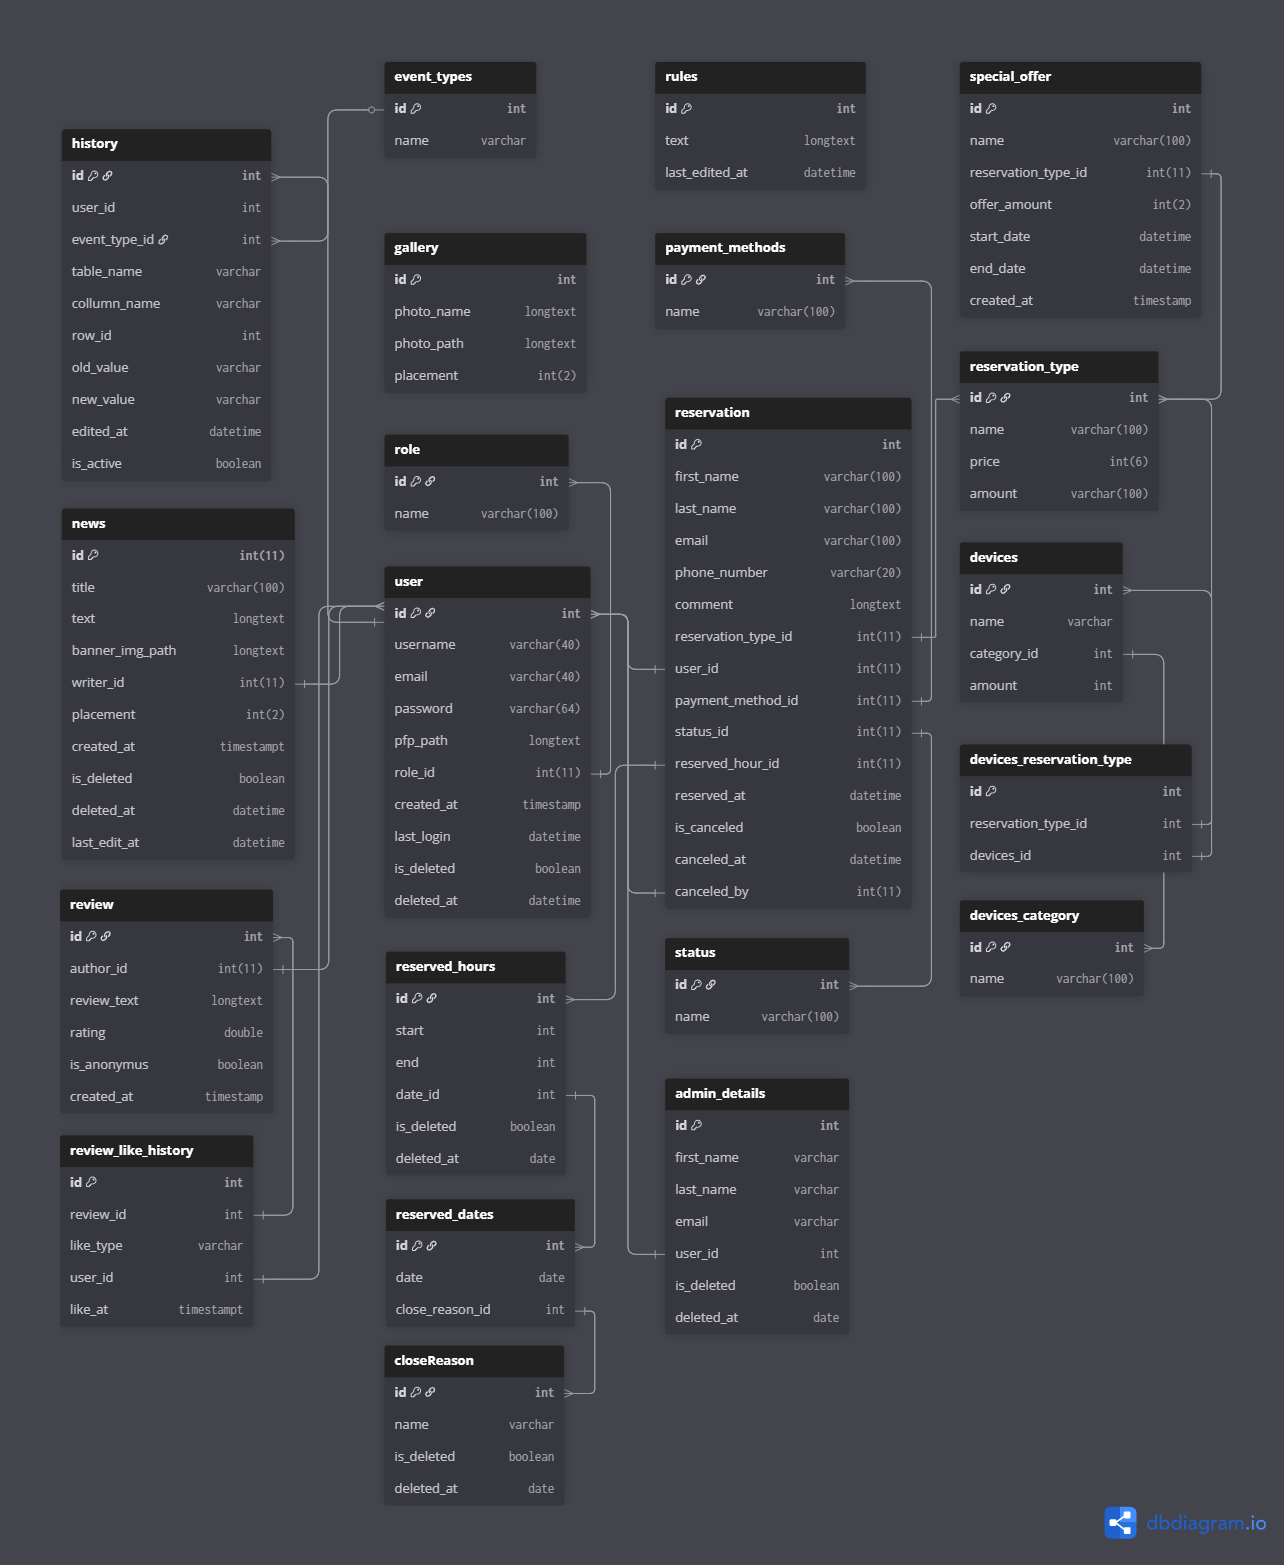
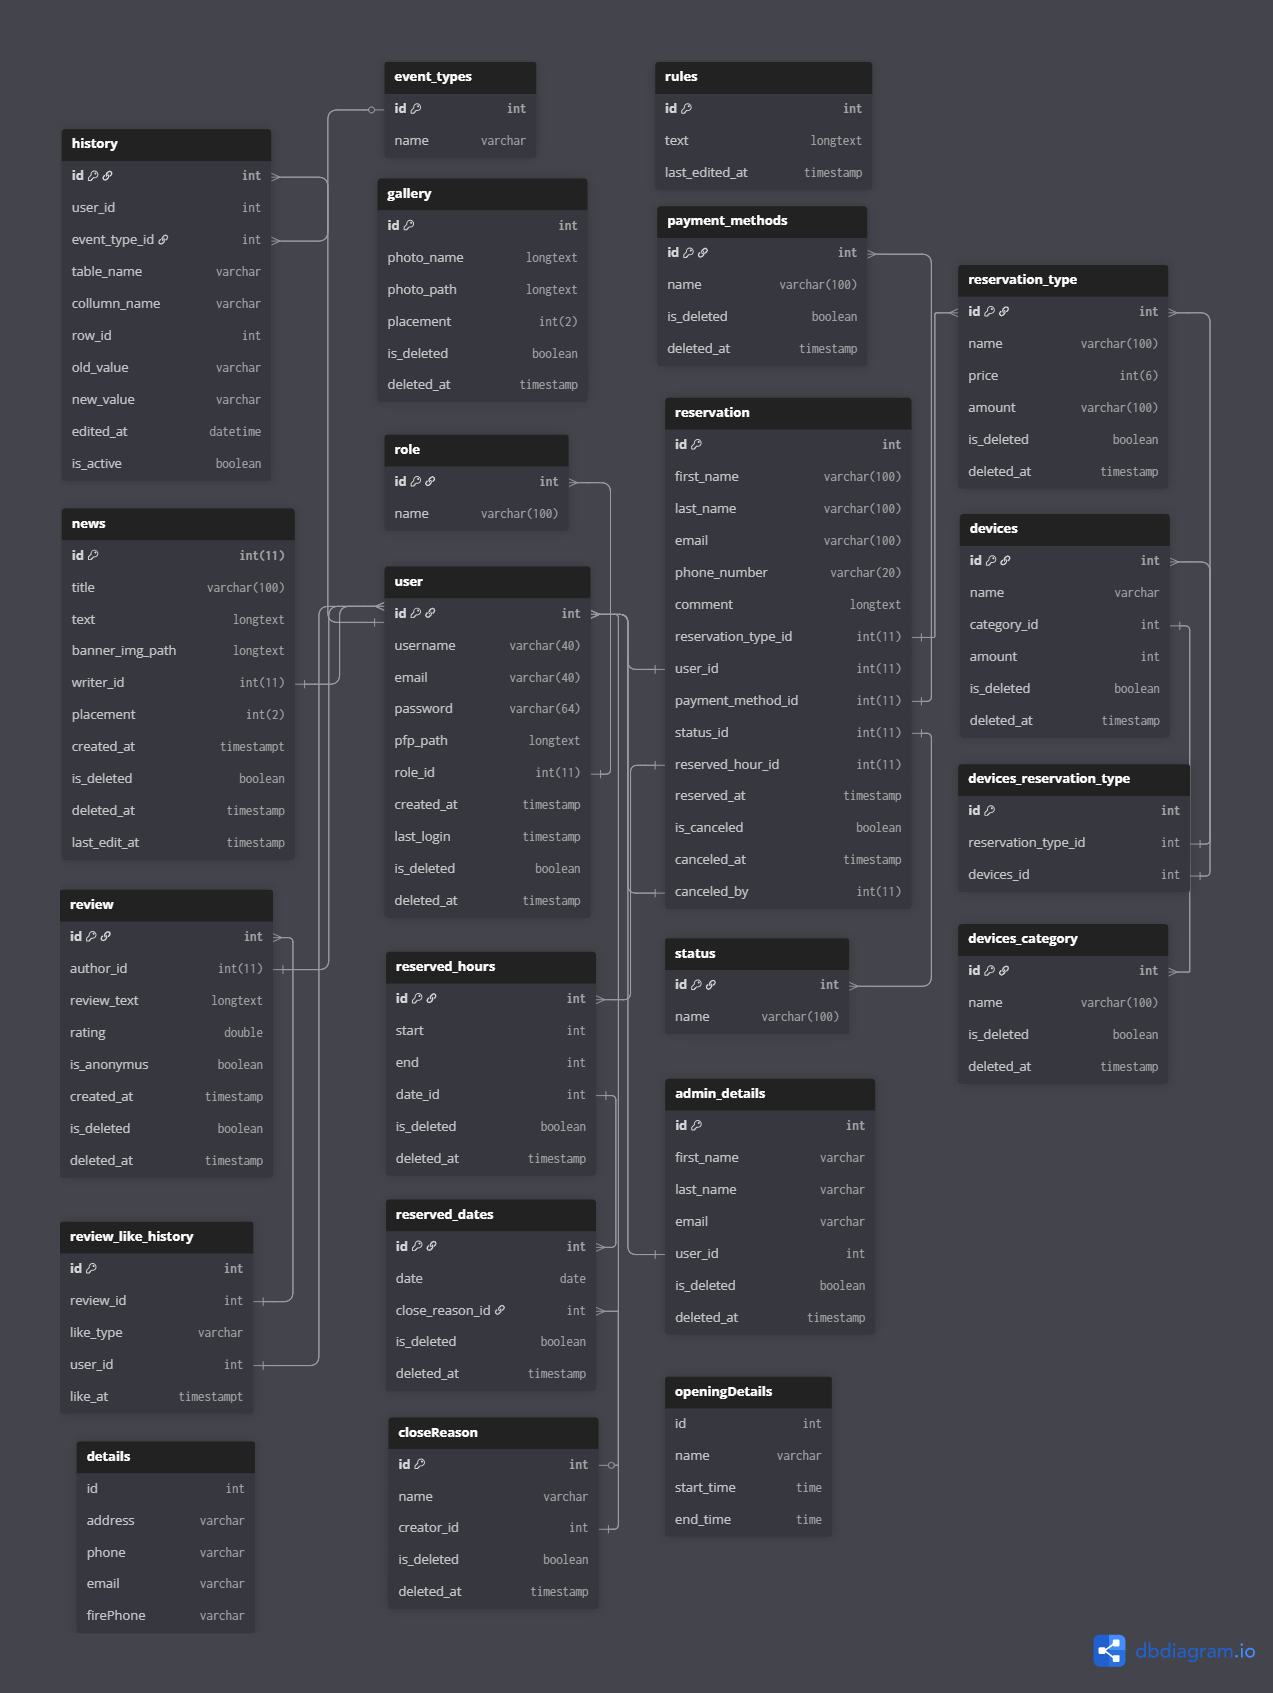
adatbázis frissités

Changed region(s): [[0.0306, 0.0307, 0.9497, 0.9508], [0.7353, 0.0307, 0.9497, 0.0613], [0.8578, 0.9508, 0.9804, 0.9815]]

diff --git a/appointmentManagementAPI/src/main/java/com/Hbence/appointmentManagementAPI/entity/DevicesCategory.java b/appointmentManagementAPI/src/main/java/com/Hbence/appointmentManagementAPI/entity/DevicesCategory.java
@@ -9,6 +9,7 @@ import javax.validation.constraints.NotNull;
 import javax.validation.constraints.Null;
 import javax.validation.constraints.Size;
 import java.time.LocalDateTime;
+import java.util.Date;
 import java.util.List;
 
 @Entity
@@ -30,14 +31,14 @@ public class DevicesCategory {
     private String name;
 
     @Column(name = "is_deleted")
-    @NotNull
     @JsonIgnore
-    private Boolean isDeleted;
+    private Boolean isDeleted = false;
 
     @Column(name = "deleted_at")
     @Null
     @JsonIgnore
-    private LocalDateTime deletedAt;
+    @Temporal(TemporalType.TIMESTAMP)
+    private Date deletedAt;
 
     //Kapcsolatok
     @OneToMany(

diff --git a/appointmentManagementAPI/src/main/java/com/Hbence/appointmentManagementAPI/entity/CloseReason.java b/appointmentManagementAPI/src/main/java/com/Hbence/appointmentManagementAPI/entity/CloseReason.java
@@ -12,6 +12,7 @@ import javax.validation.constraints.NotNull;
 import javax.validation.constraints.Null;
 import javax.validation.constraints.Size;
 import java.time.LocalDateTime;
+import java.util.Date;
 import java.util.List;
 
 @Table(name = "close_reason")
@@ -33,14 +34,14 @@ public class CloseReason {
     private String name;
 
     @Column(name = "is_deleted")
-    @NotNull
     @JsonIgnore
     private Boolean isDeleted = false;
 
     @Column(name = "deleted_at")
     @Null
     @JsonIgnore
-    private LocalDateTime deletedAt;
+    @Temporal(TemporalType.TIMESTAMP)
+    private Date deletedAt;
 
     //Kapcsolatok
     @OneToMany(

diff --git a/appointmentManagementAPI/src/main/java/com/Hbence/appointmentManagementAPI/entity/ReservedHours.java b/appointmentManagementAPI/src/main/java/com/Hbence/appointmentManagementAPI/entity/ReservedHours.java
@@ -10,6 +10,7 @@ import javax.validation.constraints.Null;
 import javax.validation.constraints.Size;
 import java.time.LocalDate;
 import java.time.LocalDateTime;
+import java.util.Date;
 
 @Entity
 @Table(name = "reserved_hour")
@@ -40,14 +41,14 @@ public class ReservedHours {
     private int end;
 
     @Column(name = "is_deleted")
-    @NotNull
     @JsonIgnore
     private Boolean isDeleted = false;
 
     @Column(name = "deleted_at")
     @Null
     @JsonIgnore
-    private LocalDateTime deletedAt;
+    @Temporal(TemporalType.TIMESTAMP)
+    private Date deletedAt;
 
     //Kapcsolatok
     @ManyToOne(cascade = {CascadeType.MERGE})

diff --git a/appointmentManagementAPI/src/main/java/com/Hbence/appointmentManagementAPI/entity/Review.java b/appointmentManagementAPI/src/main/java/com/Hbence/appointmentManagementAPI/entity/Review.java
@@ -10,6 +10,7 @@ import lombok.ToString;
 import javax.validation.constraints.NotNull;
 import javax.validation.constraints.Null;
 import java.time.LocalDateTime;
+import java.util.Date;
 import java.util.List;
 
 @Entity
@@ -41,14 +42,14 @@ public class Review {
     private LocalDateTime createdAt;
 
     @Column(name = "is_deleted")
-    @NotNull
     @JsonIgnore
     private Boolean isDeleted = false;
 
     @Column(name = "deleted_at")
     @Null
     @JsonIgnore
-    private LocalDateTime deletedAt;
+    @Temporal(TemporalType.TIMESTAMP)
+    private Date deletedAt;
 
     //Kapcsolatok
     @ManyToOne(cascade = {})

diff --git a/appointmentManagementAPI/src/main/java/com/Hbence/appointmentManagementAPI/entity/PaymentMethods.java b/appointmentManagementAPI/src/main/java/com/Hbence/appointmentManagementAPI/entity/PaymentMethods.java
@@ -8,6 +8,7 @@ import javax.validation.constraints.NotNull;
 import javax.validation.constraints.Null;
 import javax.validation.constraints.Size;
 import java.time.LocalDateTime;
+import java.util.Date;
 import java.util.List;
 
 @Entity
@@ -29,14 +30,14 @@ public class PaymentMethods {
     private String name;
 
     @Column(name = "is_deleted")
-    @NotNull
     @JsonIgnore
     private Boolean isDeleted = false;
 
     @Column(name = "deleted_at")
     @Null
     @JsonIgnore
-    private LocalDateTime deletedAt;
+    @Temporal(TemporalType.TIMESTAMP)
+    private Date deletedAt;
 
     //Kapcsolatok
     @JsonIgnore

diff --git a/appointmentManagementAPI/src/main/java/com/Hbence/appointmentManagementAPI/entity/Role.java b/appointmentManagementAPI/src/main/java/com/Hbence/appointmentManagementAPI/entity/Role.java
@@ -28,16 +28,6 @@ public class Role {
     @Size(max = 100)
     private String name;
 
-    @Column(name = "is_deleted")
-    @NotNull
-    @JsonIgnore
-    private Boolean isDeleted = false;
-
-    @Column(name = "deleted_at")
-    @Null
-    @JsonIgnore
-    private LocalDateTime deletedAt;
-
     //Kapcsolatok
     @OneToMany(
             mappedBy = "role",
@@ -46,4 +36,9 @@ public class Role {
     )
     @JsonIgnore
     private List<Users> users;
+
+    public Role(Integer id, String name) {
+        Id = id;
+        this.name = name;
+    }
 }

diff --git a/appointmentManagementAPI/src/main/java/com/Hbence/appointmentManagementAPI/entity/Users.java b/appointmentManagementAPI/src/main/java/com/Hbence/appointmentManagementAPI/entity/Users.java
@@ -61,6 +61,7 @@ public class Users {
 
     @Column(name = "last_login")
     @Null
+    @Temporal(TemporalType.TIMESTAMP)
     @JsonIgnore
     private Date lastLogin;
 
@@ -81,7 +82,7 @@ public class Users {
     //Kapcsolatok:
     @ManyToOne(cascade = {CascadeType.DETACH})
     @JoinColumn(name = "role_id")
-    private Role role = new Role(Long.valueOf(1), "user");
+    private Role role = new Role(1, "user");
 
     @OneToMany(mappedBy = "writer", fetch = FetchType.LAZY, cascade = {})
     @JsonIgnore

diff --git a/appointmentManagementAPI/src/main/java/com/Hbence/appointmentManagementAPI/entity/Reservations.java b/appointmentManagementAPI/src/main/java/com/Hbence/appointmentManagementAPI/entity/Reservations.java
@@ -81,13 +81,16 @@ public class Reservations {
     private String comment;
 
     @Column(name = "reserved_at")
+    @Temporal(TemporalType.TIMESTAMP)
     private Date reservedAt;
 
     @Column(name = "is_canceled", columnDefinition = "boolean default false")
     private Boolean isCanceled = false;
 
     @Column(name = "canceled_at")
-    private LocalDate canceledAt;
+    @Temporal(TemporalType.TIMESTAMP)
+    @Null
+    private Date canceledAt;
 
     @JsonIgnore
     @Column(name = "cancel_v_code")

diff --git a/appointmentManagementAPI/src/main/java/com/Hbence/appointmentManagementAPI/entity/AdminDetails.java b/appointmentManagementAPI/src/main/java/com/Hbence/appointmentManagementAPI/entity/AdminDetails.java
@@ -13,7 +13,7 @@ import javax.validation.constraints.Size;
 import java.util.Date;
 
 @Entity
-@Table(name = "admin_details")
+@Table(name = "admin_detail")
 @Getter
 @Setter
 @NoArgsConstructor
@@ -50,9 +50,9 @@ public class AdminDetails {
     private Boolean isDeleted = false;
 
     @Column(name = "deleted_at")
-    @Temporal(TemporalType.TIMESTAMP)
     @Null
     @JsonIgnore
+    @Temporal(TemporalType.TIMESTAMP)
     private Date deletedAt;
 
     //Kapcsolatok

diff --git a/appointmentManagementAPI/src/main/java/com/Hbence/appointmentManagementAPI/entity/ReservedDates.java b/appointmentManagementAPI/src/main/java/com/Hbence/appointmentManagementAPI/entity/ReservedDates.java
@@ -50,14 +50,14 @@ public class ReservedDates {
     private Boolean isClosed = false;
 
     @Column(name = "is_deleted")
-    @NotNull
     @JsonIgnore
     private Boolean isDeleted = false;
 
     @Column(name = "deleted_at")
     @Null
     @JsonIgnore
-    private LocalDateTime deletedAt;
+    @Temporal(TemporalType.TIMESTAMP)
+    private Date deletedAt;
 
     //Kapcsolatok
     @JsonIgnoreProperties({"date", "reservationHour"})

diff --git a/appointmentManagementAPI/src/main/java/com/Hbence/appointmentManagementAPI/entity/ReservationType.java b/appointmentManagementAPI/src/main/java/com/Hbence/appointmentManagementAPI/entity/ReservationType.java
@@ -38,13 +38,13 @@ public class ReservationType {
     private int price;
 
     @Column(name = "is_deleted")
-    @NotNull
     @JsonIgnore
     private Boolean isDeleted = false;
 
     @Column(name = "deleted_at")
     @Null
     @JsonIgnore
+    @Temporal(TemporalType.TIMESTAMP)
     private Date deletedAt;
 
     //Kapcsolatok

diff --git a/appointmentManagementAPI/src/main/java/com/Hbence/appointmentManagementAPI/entity/Devices.java b/appointmentManagementAPI/src/main/java/com/Hbence/appointmentManagementAPI/entity/Devices.java
@@ -40,13 +40,13 @@ public class Devices {
     private int amount;
 
     @Column(name = "is_deleted")
-    @NotNull
     @JsonIgnore
     private Boolean isDeleted = false;
 
     @Column(name = "deleted_at")
     @Null
     @JsonIgnore
+    @Temporal(TemporalType.TIMESTAMP)
     private Date deletedAt;
 
     //Kapcsolatok:
